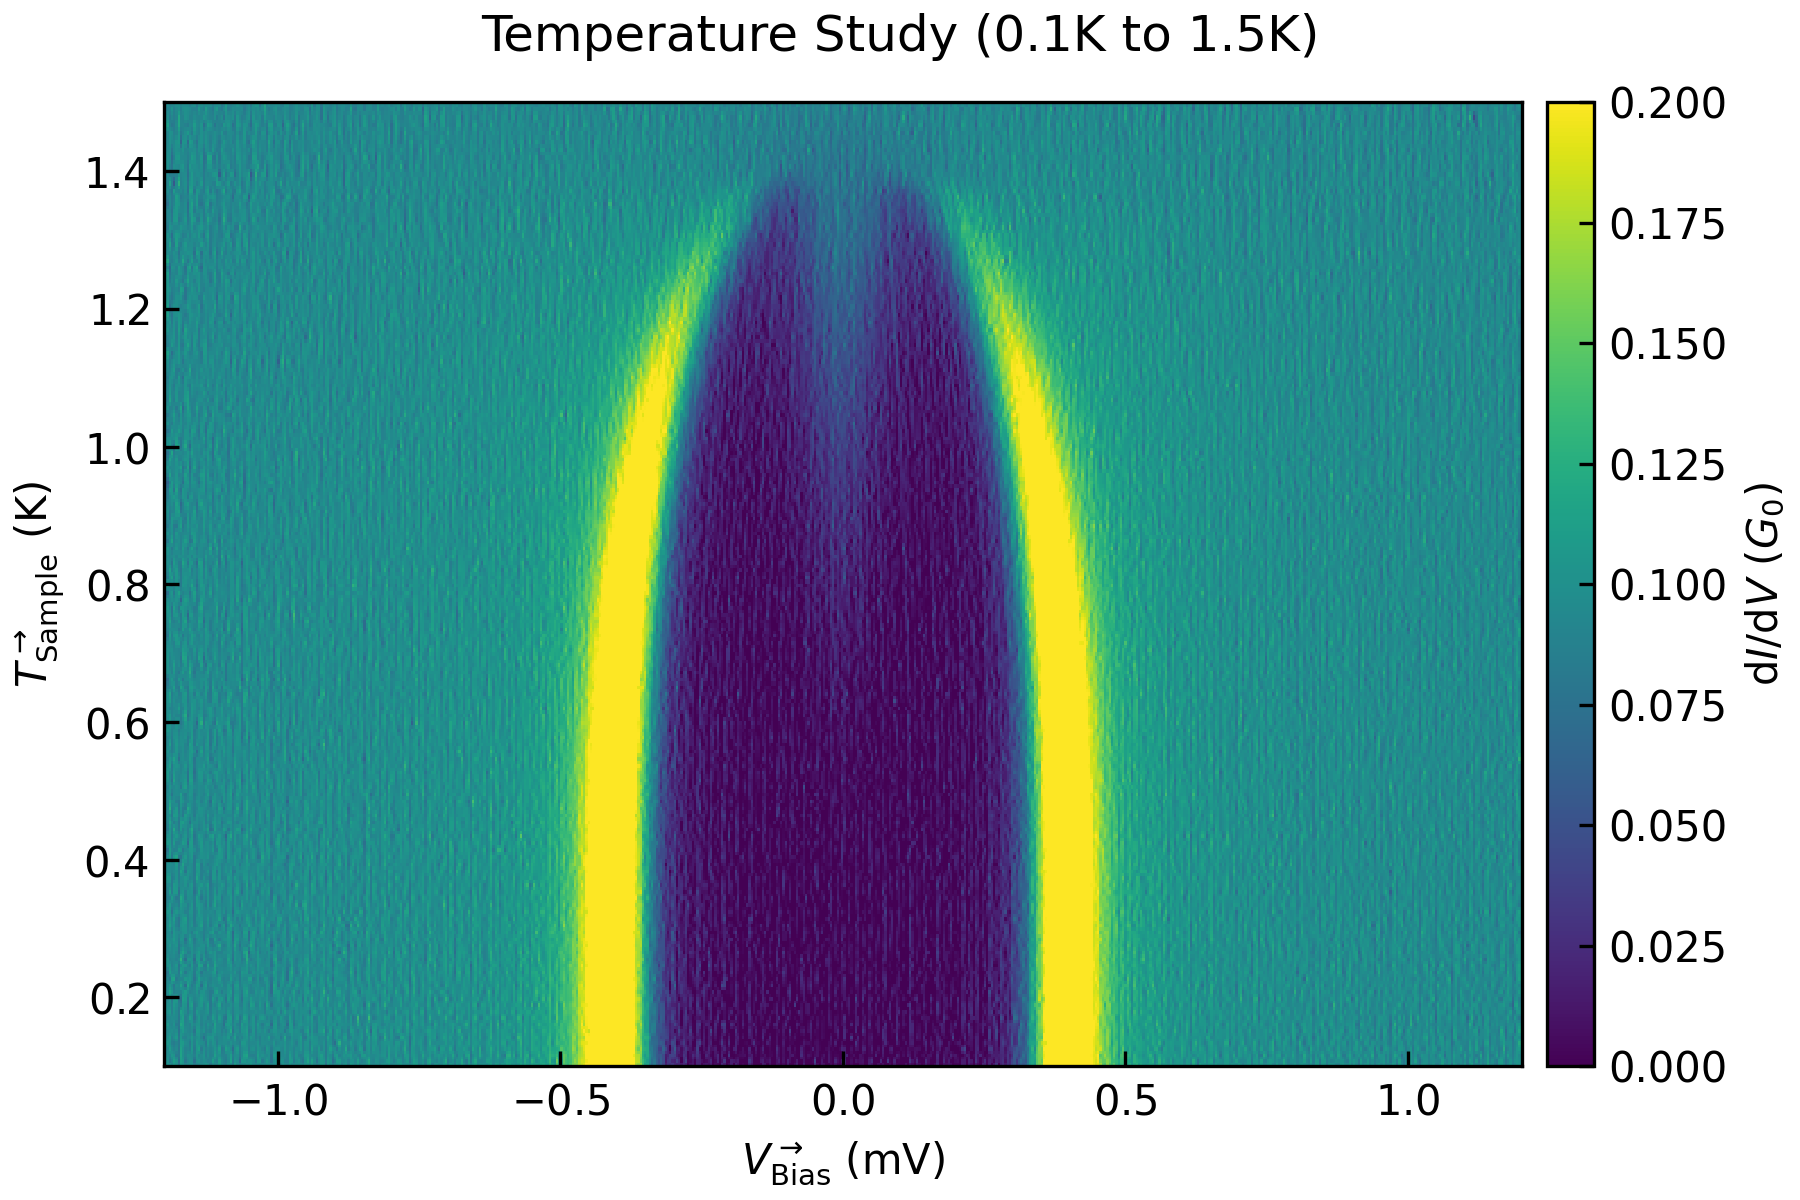
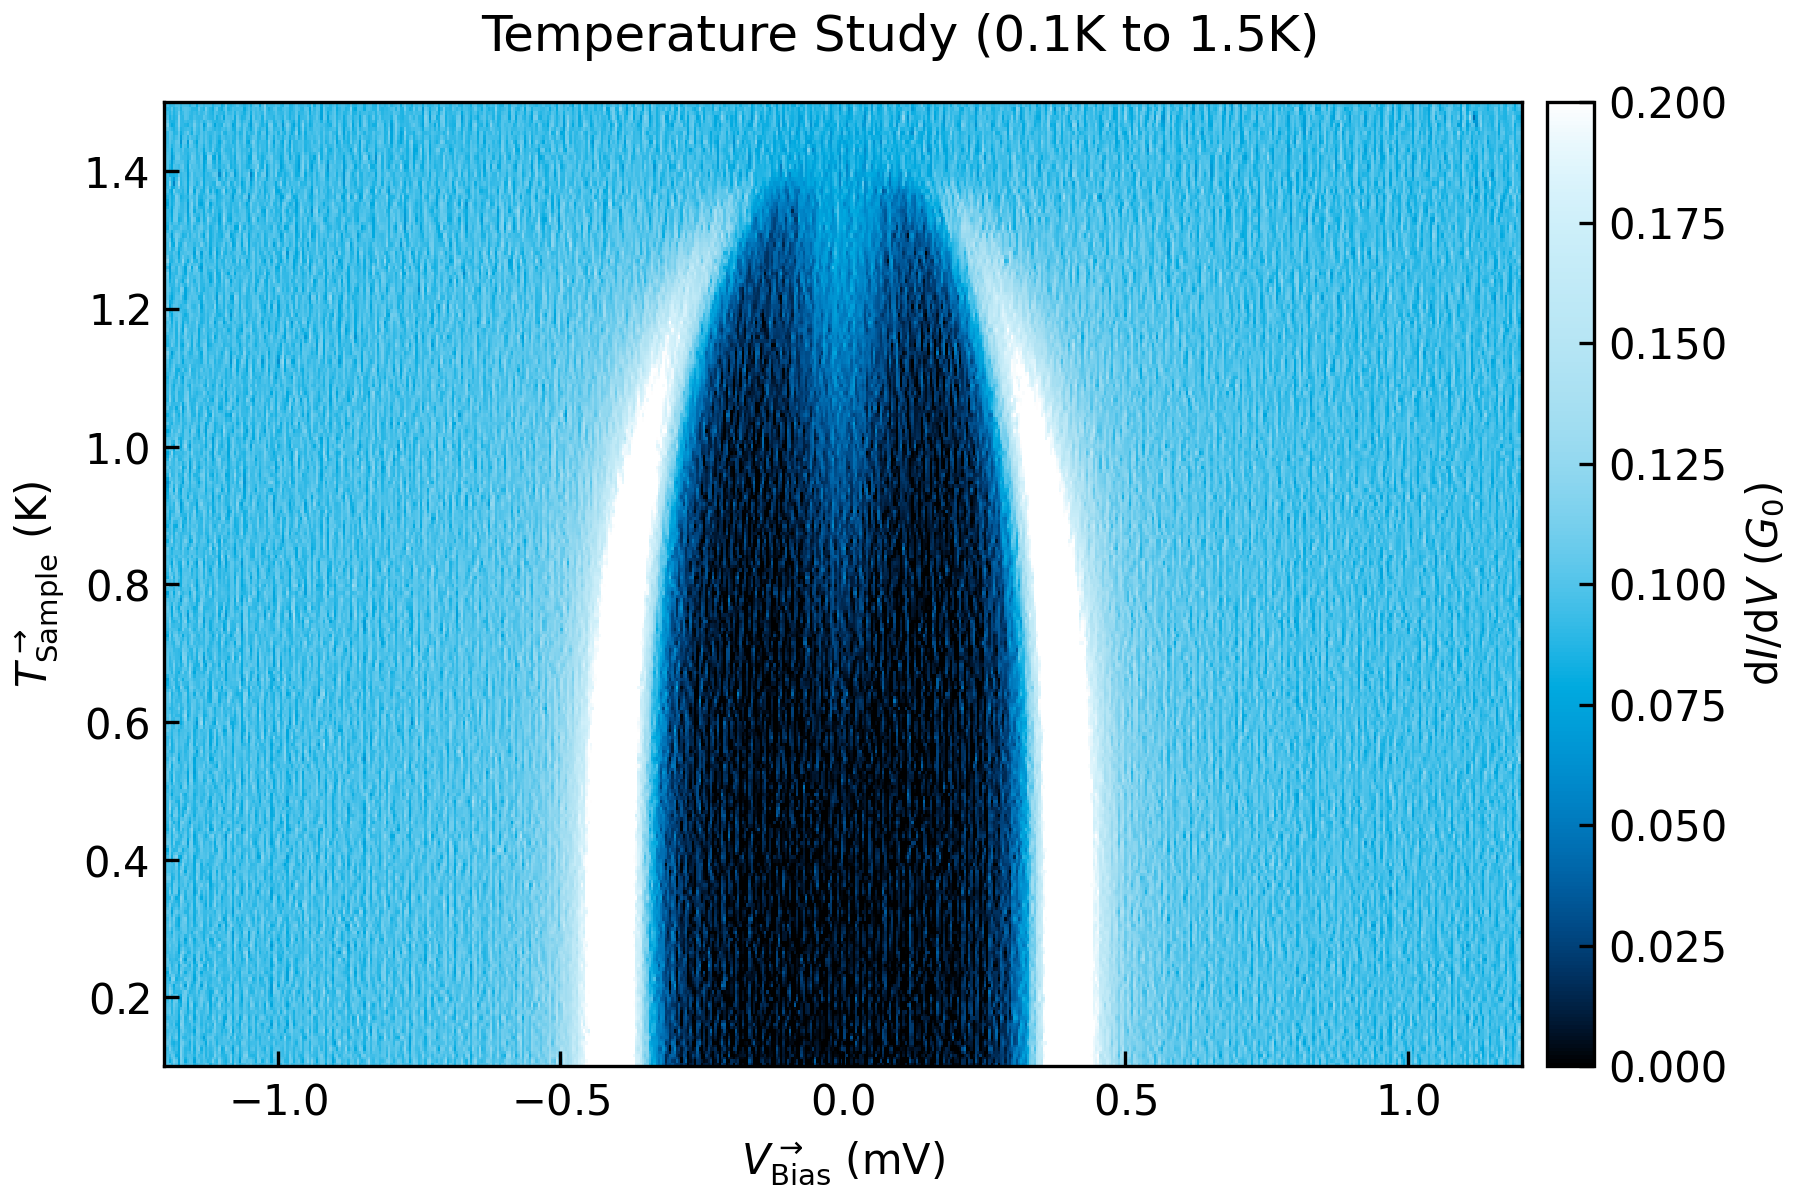
mac push

diff --git a/utilities/evaluation_v2.py b/utilities/evaluation_v2.py
@@ -9,6 +9,8 @@ from datetime import datetime
 
 import warnings, os
 
+from .corporate_design_colors_v4 import cmap
+
 """
 Pre-Definition of Functions
 """
@@ -148,6 +150,7 @@ class EvaluationScript_v2():
         self.dpi = 300
         self.pdf = False
         self.cmap = 'viridis'
+        self.cmap = cmap(color='seeblau', bad='gray')
         self.fig_folder = 'figures'
 
         self.indices = {
